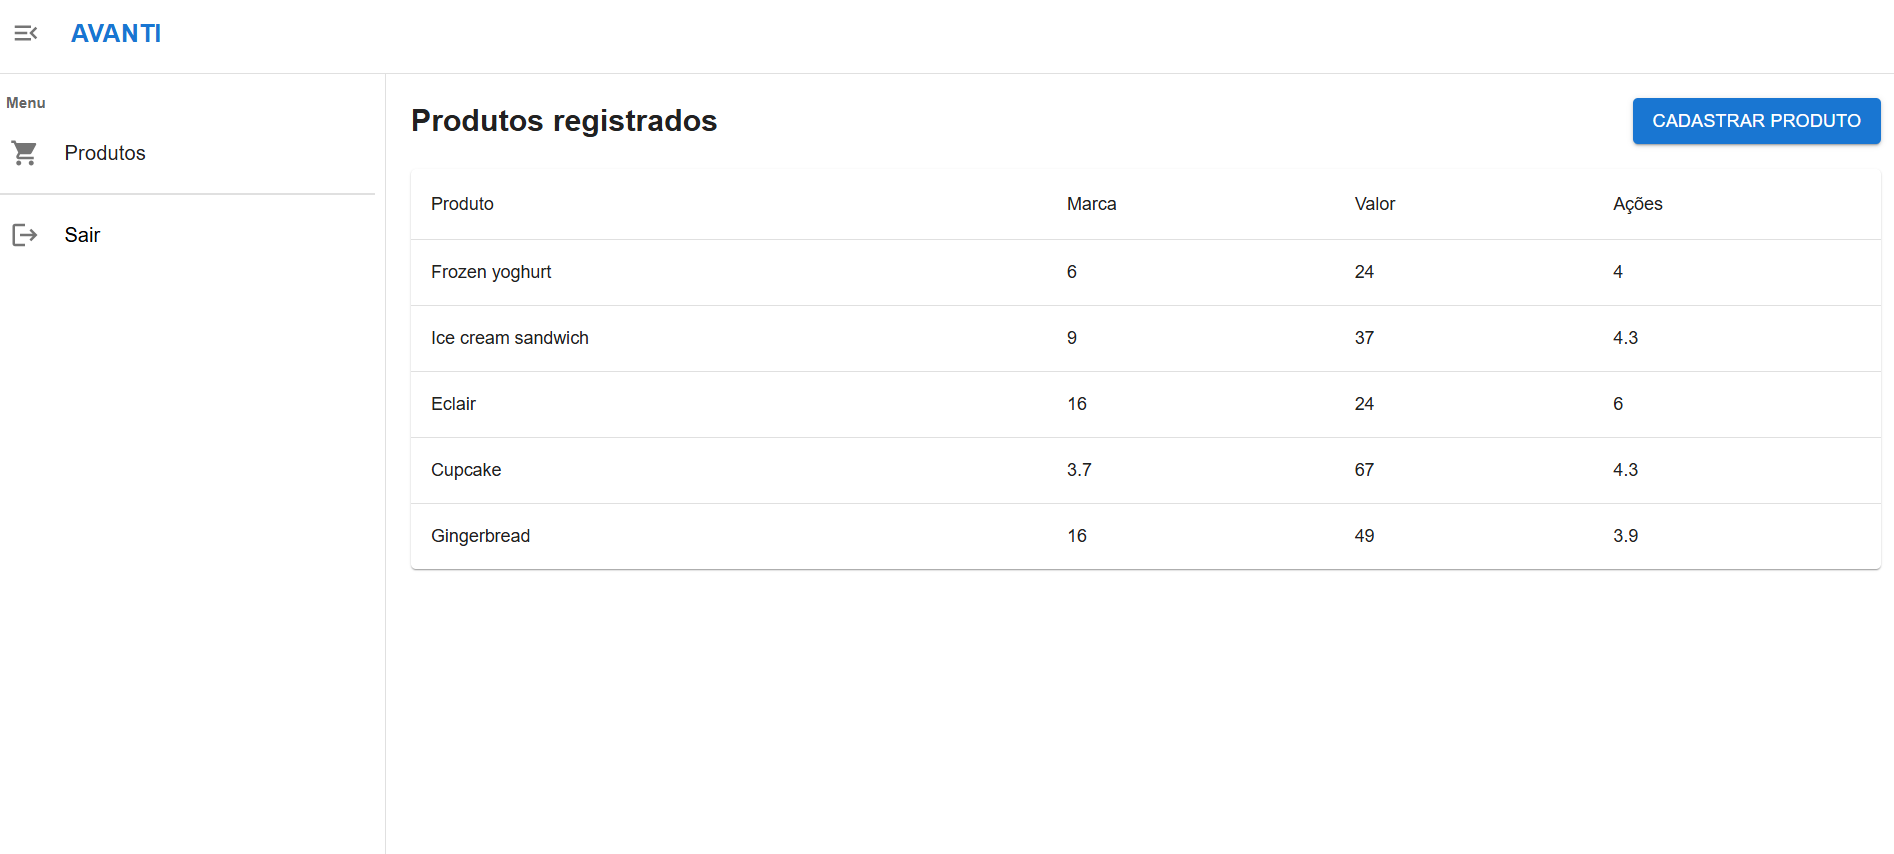
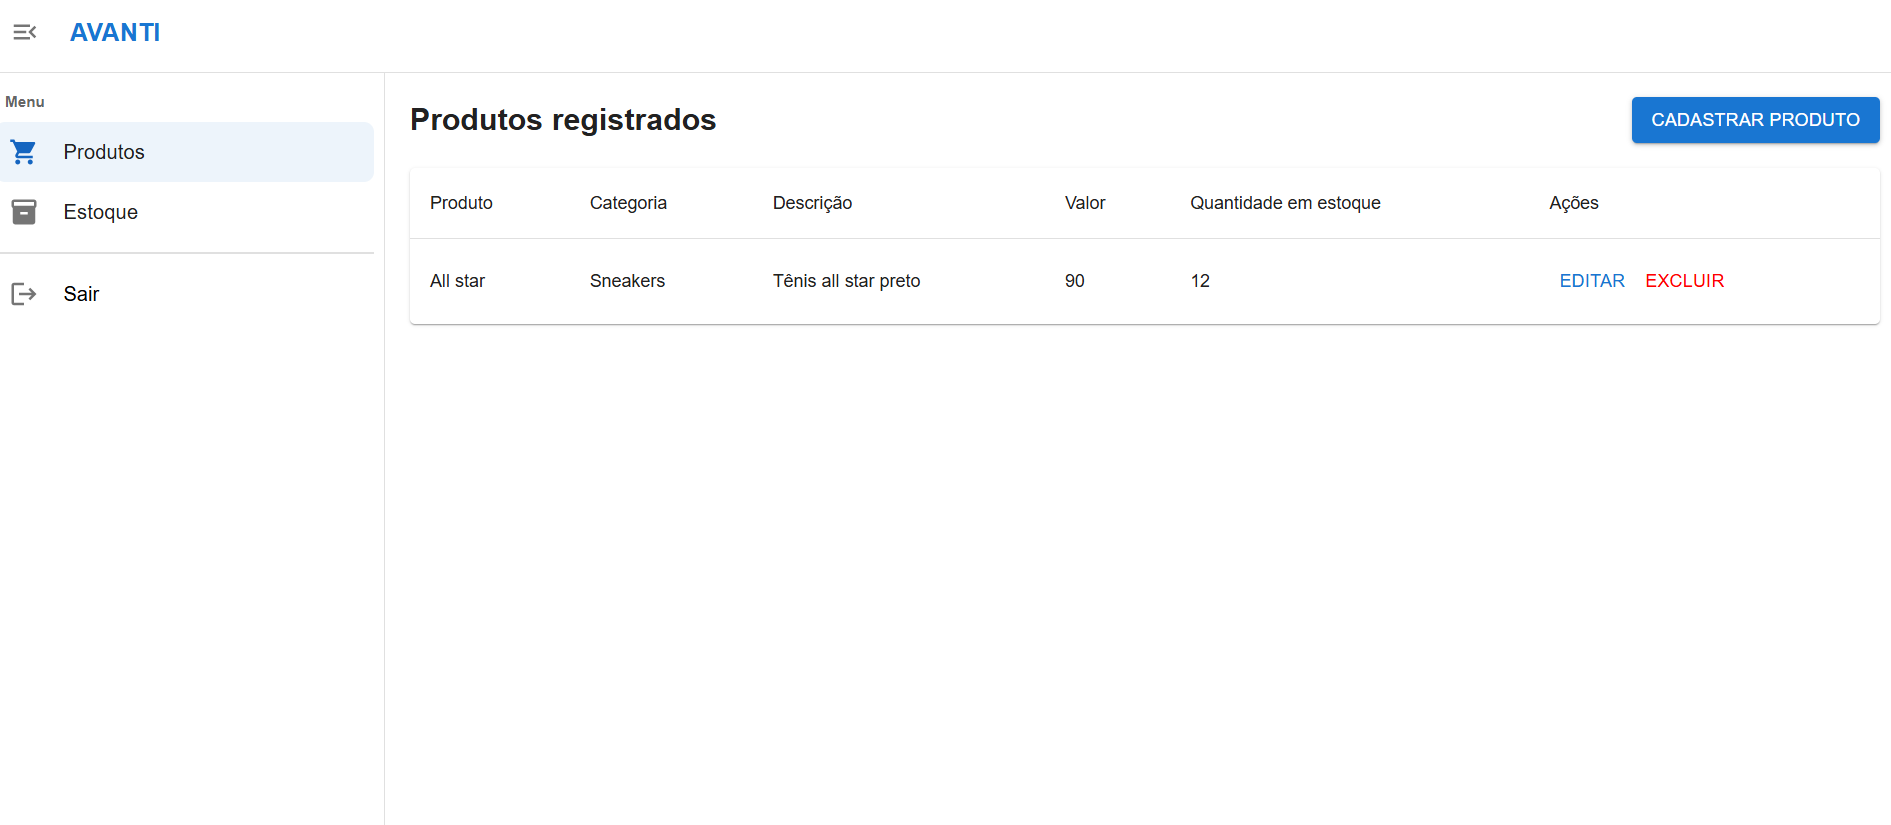
feat: - Atualizando imagem das paginas para readme - Integrando lista de produtos com carrossel de produtos da landpage - Ajustando url de imagem para preview

diff --git a/src/components/CarouselSection/index.jsx b/src/components/CarouselSection/index.jsx
@@ -2,37 +2,8 @@ import { Box, Typography } from "@mui/material";
 import Carousel from 'react-material-ui-carousel';
 import { ProductCard } from "../ProductCard";
 
-const mockProducts = [
-  {
-    id: 1,
-    name: "Air Force",
-    value: "759,99",
-    description:
-      "O brilho perdura no Nike Air Force 1 ’07, o tênis original do basquete que dá um toque de inovação naquilo que você conhece bem: sobreposições costuradas e duráveis, acabamentos simples e a quantidade perfeita de brilho para fazer você se destacar.",
-    brand: "Nike",
-    imageUrl: "/air-force.avif",
-  },
-  {
-    id: 2,
-    name: "Air Jordan",
-    value: "1.599,90",
-    description:
-      "O Tênis Air Jordan 1 Chicago colorway foi introduzido pela primeira vez em 1985 e só foi retroado algumas vezes desde então. Mas 2022 é o ano em que a colorway retorna com um visual vintage adicional. Acentos pré-amarelados e cabedal de couro rachado exibem uma aparência fabricada de idade e desgaste. Adquira já na Sportline Store.",
-    brand: "Nike",
-    imageUrl: "/air-jordan.webp",
-  },
-  {
-    id: 3,
-    name: "Dunk Low",
-    value: "854,99",
-    description:
-      "Criado para as quadras mas adorado nas ruas, o Nike Dunk Low Retro retorna com sobreposições viçosas e cores originais do time. Este ícone do basquete canaliza a vibe dos anos 80 com um couro premium e elegante na parte de cima que envelhece com estilo. A tecnologia moderna de calçados permite trazer o conforto para o século XXI.",
-    brand: "Nike",
-    imageUrl: "/dunk-low.avif",
-  },
-];
-
 export function CarouselSection() {
+  const products = JSON.parse(localStorage.getItem("produtos")) || []
 
   return (
     <Box
@@ -46,7 +17,12 @@ export function CarouselSection() {
         margin: "auto",
       }}
     >
-      <Typography variant="h5" textAlign="center" gutterBottom sx={{ marginBottom: 10 }}>
+      <Typography
+        variant="h5"
+        textAlign="center"
+        gutterBottom
+        sx={{ marginBottom: 10 }}
+      >
         NOSSOS PRODUTOS POPULARES
       </Typography>
       <Carousel
@@ -59,12 +35,12 @@ export function CarouselSection() {
           },
         }}
       >
-        {mockProducts.map((product, index) => (
+        {products?.map((product, index) => (
           <Box key={index} sx={{ display: "flex", justifyContent: "center" }}>
             <ProductCard product={product} />
           </Box>
         ))}
       </Carousel>
     </Box>
-  );
+  )
 }

diff --git a/src/components/ProductCard/index.jsx b/src/components/ProductCard/index.jsx
@@ -3,31 +3,17 @@ import CardContent from "@mui/material/CardContent";
 import CardMedia from "@mui/material/CardMedia";
 import Typography from "@mui/material/Typography";
 import CardActionArea from "@mui/material/CardActionArea";
-import { useNavigate } from "react-router-dom";
+import ImageDefault from "@assets/sem_imagem.png"
 
 export function ProductCard({ product }) {
-  const navigate = useNavigate();
-
-  const handleClick = () => {
-    navigate(`/products/${product.id}`);
-  };
-
-  const handleEdit = () => {
-    navigate(`/products/${product.id}`);
-  };
-
-  const handleDelete = () => {
-    navigate(`/products/${product.id}`);
-  };
-
   return (
     <Card sx={{ width: "100%", maxWidth: 364 }}>
       <CardActionArea>
         <CardMedia
           component="img"
           height="200"
-          image={product.imageUrl}
-          alt={product.name}
+          image={product.image ? product.image.urlImage : ImageDefault}
+          alt={product.description}
         />
         <CardContent>
           <Typography gutterBottom variant="h5" component="div">
@@ -37,17 +23,13 @@ export function ProductCard({ product }) {
             Valor: R$ {product.value}
           </Typography>
           <Typography variant="body2" sx={{ color: "text.secondary" }}>
-            Marca: {product.brand}
+            Categoria: {product.categorie}
           </Typography>
-          <Typography
-            noWrap
-            variant="body2"
-            sx={{ color: "text.secondary" }}
-          >
+          <Typography noWrap variant="body2" sx={{ color: "text.secondary" }}>
             {product.description}
           </Typography>
         </CardContent>
       </CardActionArea>
     </Card>
-  );
+  )
 }

diff --git a/src/pages/Home/index.jsx b/src/pages/Home/index.jsx
@@ -5,36 +5,6 @@ import { Header } from "../../components/Header"
 import { AboutUs } from "../../components/AboutUs"
 import { Footer } from "../../components/Footer"
 
-const mockProducts = [
-  {
-    id: 1,
-    name: "Air Force",
-    value: "759,99",
-    description:
-      "O brilho perdura no Nike Air Force 1 ’07, o tênis original do basquete que dá um toque de inovação naquilo que você conhece bem: sobreposições costuradas e duráveis, acabamentos simples e a quantidade perfeita de brilho para fazer você se destacar.",
-    brand: "Nike",
-    imageUrl: "/air-force.avif",
-  },
-  {
-    id: 2,
-    name: "Air Jordan",
-    value: "1.599,90",
-    description:
-      "O Tênis Air Jordan 1 Chicago colorway foi introduzido pela primeira vez em 1985 e só foi retroado algumas vezes desde então. Mas 2022 é o ano em que a colorway retorna com um visual vintage adicional. Acentos pré-amarelados e cabedal de couro rachado exibem uma aparência fabricada de idade e desgaste. Adquira já na Sportline Store.",
-    brand: "Nike",
-    imageUrl: "/air-jordan.webp",
-  },
-  {
-    id: 3,
-    name: "Dunk Low",
-    value: "854,99",
-    description:
-      "Criado para as quadras mas adorado nas ruas, o Nike Dunk Low Retro retorna com sobreposições viçosas e cores originais do time. Este ícone do basquete canaliza a vibe dos anos 80 com um couro premium e elegante na parte de cima que envelhece com estilo. A tecnologia moderna de calçados permite trazer o conforto para o século XXI.",
-    brand: "Nike",
-    imageUrl: "/dunk-low.avif",
-  },
-]
-
 export function Home() {
   return (
     <Box

diff --git a/src/pages/CreateOrEditProduct/index.jsx b/src/pages/CreateOrEditProduct/index.jsx
@@ -46,14 +46,23 @@ export function CreateOrEditProduct() {
 
   const storedProducts = JSON.parse(localStorage.getItem("produtos")) || []
 
-  const handleChange = (e) => {
+  const convertToBase64 = (file) => {
+    return new Promise((resolve, reject) => {
+      const reader = new FileReader()
+      reader.readAsDataURL(file)
+      reader.onload = () => resolve(reader.result)
+      reader.onerror = (error) => reject(error)
+    })
+  }
+
+  const handleChange = async (e) => {
     const { name, value } = e.target
     if (name === "image") {
       const file = e.target.files ? e.target.files[0] : null
 
       const imageData = {
         name: file.name,
-        urlImage: URL.createObjectURL(file),
+        urlImage: await convertToBase64(file),
       }
 
       setFormData((prevState) => ({
@@ -219,7 +228,7 @@ export function CreateOrEditProduct() {
         <FormControl fullWidth sx={{ mt: 2, ml: 2 }}>
           <InputLabel id="demo-simple-select-label">Categoria</InputLabel>
           <Select
-            disabled={id}
+            disabled={id.toString() !== null || undefined || "" || false}
             labelId="demo-simple-select-label"
             id="demo-simple-select"
             label="Categoria"

diff --git a/src/components/Table/index.jsx b/src/components/Table/index.jsx
@@ -51,12 +51,12 @@ export default function BasicTable({
           </TableRow>
         </TableHead>
         <TableBody>
-          {rows.map((row, rowIndex) => (
+          {rows?.map((row, rowIndex) => (
             <TableRow
               key={rowIndex}
               sx={{ "&:last-child td, &:last-child th": { border: 0 } }}
             >
-              {headers.map((header) => {
+              {headers?.map((header) => {
                 if (header.field === "actions") {
                   return (
                     <TableCell key={header.field}>
@@ -80,7 +80,7 @@ export default function BasicTable({
                 }
 
                 return (
-                  <TableCell key={header.field} align="left">
+                  <TableCell key={header?.field} align="left">
                     {row[header.field]}
                   </TableCell>
                 )

diff --git a/README.md b/README.md
@@ -27,3 +27,17 @@ Login de acesso exclusivo para usuários autorizados gerenciarem os produtos da 
 Quando um usuário autorizado acessar a rota /administrador, o sistema realizará a verificação da existência de uma sessão ativa. Caso o usuário já possua uma sessão ativa, ele será automaticamente redirecionado para o painel de controle, onde poderá visualizar as informações dos produtos. Se a sessão não estiver ativa, o usuário será redirecionado para a tela de login para autenticação.
 
 ![Dashboard](./public/pagina_dashboard.png)
+
+### Estoque
+
+Sempre que um produto, for editado, excluido ou alterado, os dados do estoque serão atualizados.
+
+![Dashboard](./public/pagina_estoque.png)
+
+### Criando ou Editando produto
+
+Página de criação ou edição de um produto.
+
+A imagem deve ser menor que 3mb, pois caso contrario dará erro. Esses dados são salvos no localStorage, e nele tem limite para armazenamento.
+
+![Dashboard](./public/pagina_produto.png)
